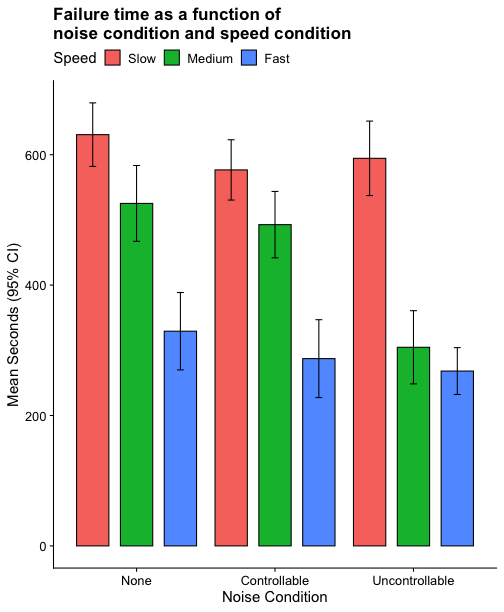
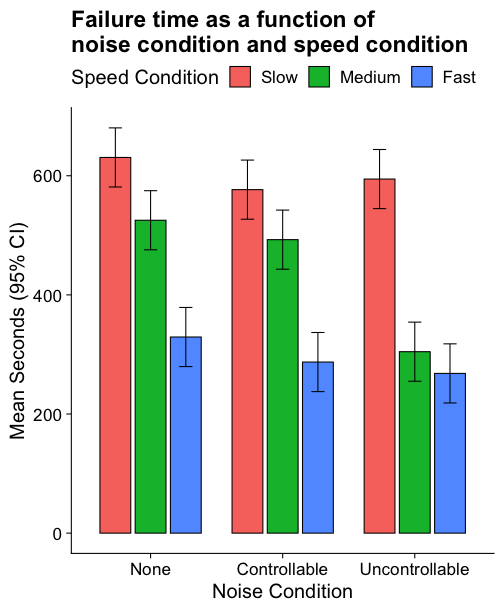
link lecture 16

Changed region(s): [[0.0, 0.0, 0.9821, 0.9935], [0.8929, 0.1242, 0.9524, 0.1552]]

diff --git a/lectures/16-interactions.html b/lectures/16-interactions.html
@@ -21,7 +21,7 @@ class: center, middle, inverse, title-slide
 ## Last time
 
 Mixing categorical and continuous variables
-- [Review example](https://uopsych.github.io/psy612/lectures/15-interactions.html#23)
+- [New example](https://uopsych.github.io/psy612/lectures/15-interactions.html#23)
 
 - Starting factorial ANOVA
 ---
@@ -49,7 +49,7 @@ The example data are from a simulated study in which 180 participants performed 
 ![](images/dot.jpg)
 ]
 
-The outcome was the time of the 10th failure. The experiment used a completely crossed, 3 x 3 factorial design. One factor was dot speed: .5, 1, or 1.5 revolutions per second.  The second factor was noise condition.  Some participants performed the task without any noise; others were subjected to periodic and unpredictable 3-second bursts of 85 dB white noise played over earphones.  Of those subjected to noise, half could do nothing to stop the noise (uncontrollable noise); half believed they could stop the noise by pressing a button (controllable noise).
+The outcome was the time of the 10th failure. The experiment used a completely crossed, 3 x 3 factorial design. One factor was dot speed: .5, 1, or 1.5 revolutions per second.  The second factor was noise condition: no noise, controllable noise, and uncontrollable noise.  The design was balanced. 
 
 ---
 
@@ -255,12 +255,8 @@ If not, then we would need to say that the noise condition effect depends upon (
 ---
 
 
-```r
-library(ggpubr)
-ggbarplot(data = Data, x = "Speed", y = "Time", fill = "Noise", add = c("mean_ci"), position = position_dodge(), xlab = "Speed Condition", ylab = "Mean Seconds (95% CI)", title = "Failure time as a function of\nnoise condition and speed condition") + cowplot::theme_cowplot(font_size = 20)
-```
-
 ![](16-interactions_files/figure-html/unnamed-chunk-7-1.png)&lt;!-- --&gt;
+
 
 The noise condition means are most distinctly different in the medium speed condition. The noise condition means are clearly not different in the fast speed condition. 
 
@@ -452,14 +448,29 @@ The other part will be **between-group variability**.  This part will include va
 
 $$
 `\begin{aligned}
-\large SS_{\text{total}} &amp;= \sum_{r=1}^R\sum_{c=1}^C\sum_{i=1}^{N_{rc}}(Y_{rci}-\bar{Y}_{rc.})^2 \\
+\large SS_{\text{total}} &amp;= \sum_{r=1}^R\sum_{c=1}^C\sum_{i=1}^{N_{rc}}(Y_{rci}-\bar{Y}_{...})^2 \\
+\large SS_{\text{Within}} &amp;= \sum_{r=1}^R\sum_{c=1}^C\sum_{i=1}^{N_{rc}}(Y_{rci}-\bar{Y}_{rc.})^2 \\
 \large SS_R &amp;= CN\sum_{r=1}^R(\bar{Y}_{r..}-\bar{Y}_{...})^2\\
 SS_C &amp;= RN\sum_{c=1}^C(\bar{Y}_{.c.}-\bar{Y}_{...})^2\\
 \large SS_{RC} &amp;= \sum_{r=1}^R\sum_{c=1}^C\sum_{i=1}^{N_{rc}}(\bar{Y}_{rc.}-\bar{Y}_{r..}-\bar{Y}_{.c.}+\bar{Y}_{...})^2 \\
+\end{aligned}`
+$$
+---
+
+### Variability 
+
+
+$$
+`\begin{aligned}
+\large SS_{\text{total}} &amp;= \sum_{r=1}^R\sum_{c=1}^C\sum_{i=1}^{N_{rc}}(Y_{rci}-\bar{Y}_{...})^2 \\
+\large SS_{\text{Within}} &amp;= \sum_{r=1}^R\sum_{c=1}^C\sum_{i=1}^{N_{rc}}(Y_{rci}-\bar{Y}_{rc.})^2 \\
+\large SS_R &amp;= CN\sum_{r=1}^R(\bar{Y}_{r..}-\bar{Y}_{...})^2\\
+SS_C &amp;= RN\sum_{c=1}^C(\bar{Y}_{.c.}-\bar{Y}_{...})^2\\
 \large SS_{RC} &amp;= N\sum_{r=1}^R\sum_{c=1}^C(\bar{Y}_{rc.}-\bar{Y}_{r..}-\bar{Y}_{.c.}+\bar{Y}_{...})^2 \\
 \end{aligned}`
 $$
 ---
+
 
 ### Variability 
 
@@ -475,7 +486,8 @@ $$
 \large df_C &amp;= C-1 \\
 \large df_{RxC} &amp;= (R-1)(C-1) \\
 \large df_{within} &amp;= N-G \\
-&amp;= N-(R-1)-(C-1)-[(R-1)(C-1)]-1
+&amp;= N-(R-1)-(C-1)-[(R-1)(C-1)]-1\\
+&amp;= df_{total} - df_{R} - df_C - df_{RxC}
 \end{aligned}`
 $$
 
@@ -518,7 +530,15 @@ If the design is balanced (equal cases in all conditions), then:
 `\(df\)`, `\(MS\)`, and `\(F\)` ratios are defined in the same way as they were for one-way ANOVA. We just have more of them.
 
 .pull-left[
-Caution:  Comparing the confidence intervals for two means (overlap) is not the same as the confidence interval for the difference between two means.
+$$
+`\begin{aligned}
+\large F_R &amp;= \frac{MS_R}{MS_{within}} \\
+\\
+\large F_C &amp;= \frac{MS_C}{MS_{within}} \\
+\\
+\large F_{RxC} &amp;= \frac{MS_{RxC}}{MS_{within}} \\
+\end{aligned}`
+$$
 
 ]
 
@@ -651,7 +671,7 @@ All of the effects in the ANOVA are statistically significant, but how big are t
 `$$\large \eta^2 = \frac{SS_{\text{effect}}}{SS_{\text{total}}}$$`
 If the design is balanced...
 
-`$$\large SS_{\text{total}} = SS_{\text{speed}} + SS_{\text{noise}}+SS_{\text{speed:noise}}+SS_{\text{residual}}$$`
+`$$\large SS_{\text{total}} = SS_{\text{speed}} + SS_{\text{noise}}+SS_{\text{speed:noise}}+SS_{\text{within}}$$`
 ---
 
 
@@ -727,18 +747,18 @@ The sum of the `\(\eta^2\)` for effects and residual is 1.00.
 
 One argument against `\(\eta^2\)` is that its magnitude depends in part on the magnitude of the other effects in the design. If the amount of variability due to Noise or Speed x Noise changes, so to does the effect size for Speed.
 
-`$$\large \eta^2_{speed} = \frac{SS_{\text{speed}}}{SS_{\text{speed}} + SS_{\text{noise}} + SS_{\text{speed:noise}}+ SS_{\text{residual}}}$$`
+`$$\large \eta^2_{\text{speed}} = \frac{SS_{\text{speed}}}{SS_{\text{speed}} + SS_{\text{noise}} + SS_{\text{speed:noise}}+ SS_{\text{within}}}$$`
 
 An alternative is to pretend the other effects do not exist and reference the effect sum of squares to residual variability.
 
-`$$\large \text{partial }\eta^2_{speed} = \frac{SS_{\text{speed}}}{SS_{\text{speed}} + SS_{\text{residual}}}$$`
+`$$\large \text{partial }\eta^2_{\text{speed}} = \frac{SS_{\text{speed}}}{SS_{\text{speed}} + SS_{\text{within}}}$$`
 ---
 
 ### `\(\eta^2\)`
 
 One rationale for partial `\(\eta^2\)` is that the residual variability represents the expected variability in the absence of any treatments or manipulations.  The presence of any treatments or manipulations only adds to total variability.  Viewed from that perspective, residual variability is a sensible benchmark against which to judge any effect.
 
-`$$\large \text{partial }\eta^2_{effect} = \frac{SS_{\text{effect}}}{SS_{\text{effect}} + SS_{\text{residual}}}$$`
+`$$\large \text{partial }\eta^2_{\text{effect}} = \frac{SS_{\text{effect}}}{SS_{\text{effect}} + SS_{\text{within}}}$$`
 
 Partial `\(\eta^2\)` is sometimes described as the expected effect size in a study in which the effect in question is the only effect present.
 
@@ -794,7 +814,7 @@ The sum of partial `\(\eta^2\)` does not have a meaningful interpretation.
 
 ---
 
-**Differences in means**
+### Differences in means
 
 In a factorial design, marginal means or cell means must be calculated in order to interpret main effects and the interaction, respectively. The confidence intervals around those means likewise are needed.
 
@@ -843,18 +863,19 @@ In a factorial design, marginal means or cell means must be calculated in order 
 
 These means will be based on different sample sizes, which has an impact on the width of the confidence interval.
 
-If the homogeneity of variances assumption holds, a common estimate of score variability `\((MS_{residual})\)` underlies all of the confidence intervals. 
 ---
 
 ### Precision
 
-`$$\large SE_{mean} = \sqrt{\frac{MS_{residual}}{N}}$$`
+If the homogeneity of variances assumption holds, a common estimate of score variability `\((MS_{within})\)` underlies all of the confidence intervals. 
 
-`$$\large CI_{mean} = Mean \pm t_{df_{residual}, \alpha = .05}\sqrt{\frac{MS_{residual}}{N}}$$`
+`$$\large SE_{mean} = \sqrt{\frac{MS_{within}}{N}}$$`
+
+`$$\large CI_{mean} = Mean \pm t_{df_{within}, \alpha = .05}\sqrt{\frac{MS_{within}}{N}}$$`
 
 The sample size, `\(N\)`, depends on how many cases are aggregated to create the mean.
 
-The `\(MS_{residual}\)` is common to all calculations if homogeneity of variances is met.  The degrees of freedom for `\(MS_{residual}\)` determine the value of `\(t\)` to use.
+The `\(MS_{within}\)` is common to all calculations if homogeneity of variances is met.  The degrees of freedom for `\(MS_{within}\)` determine the value of `\(t\)` to use.
 ---
 
 
@@ -874,6 +895,7 @@ anova(fit)
 ## ---
 ## Signif. codes:  0 '***' 0.001 '**' 0.01 '*' 0.05 '.' 0.1 ' ' 1
 ```
+---
 
 ```r
 library(emmeans)
@@ -931,9 +953,30 @@ noise_lsm
 
 ---
 
-![](16-interactions_files/figure-html/unnamed-chunk-21-1.png)&lt;!-- --&gt;
 
---- 
+```r
+library(sjPlot)
+noise_m = plot_model(fit, type = "pred", terms = c("Noise")) + 
+  theme_sjplot(base_size = 20)
+speed_m = plot_model(fit, type = "pred", terms = c("Speed")) + 
+  theme_sjplot(base_size = 20)
+library(ggpubr)
+ggarrange(noise_m, speed_m, ncol = 2)
+```
+
+![](16-interactions_files/figure-html/unnamed-chunk-22-1.png)&lt;!-- --&gt;
+
+---
+
+
+```r
+plot_model(fit, type = "pred", terms = c("Speed", "Noise")) + 
+  theme_sjplot(base_size = 20) + theme(legend.position = "bottom")
+```
+
+![](16-interactions_files/figure-html/unnamed-chunk-23-1.png)&lt;!-- --&gt;
+
+---
 
 ### Cohen's D
 
@@ -994,9 +1037,9 @@ A reminder that comparing the confidence intervals for two means (overlap) is no
 
 $$
 `\begin{aligned}
-\large SE_{\text{mean}} &amp;= \sqrt{\frac{MS_{residual}}{N}}\\
-\large SE_{\text{mean difference}} &amp;= \sqrt{MS_{residual}[\frac{1}{N_1}+\frac{1}{N_2}]} \\
-\large SE_{\text{mean difference}} &amp;= \sqrt{\frac{2MS_{residual}}{N}} \\
+\large SE_{\text{mean}} &amp;= \sqrt{\frac{MS_{within}}{N}}\\
+\large SE_{\text{mean difference}} &amp;= \sqrt{MS_{within}[\frac{1}{N_1}+\frac{1}{N_2}]} \\
+\large SE_{\text{mean difference}} &amp;= \sqrt{\frac{2MS_{within}}{N}} \\
 \end{aligned}`
 $$
 

diff --git a/bonus.html b/bonus.html
@@ -404,6 +404,9 @@ div.tocify {
     <li>
       <a href="lectures/15-interactions.html">15-Interactions (II)</a>
     </li>
+    <li>
+      <a href="lectures/16-interactions.html">16-Interactions (III)</a>
+    </li>
   </ul>
 </li>
 <li class="dropdown">

diff --git a/final.html b/final.html
@@ -404,6 +404,9 @@ div.tocify {
     <li>
       <a href="lectures/15-interactions.html">15-Interactions (II)</a>
     </li>
+    <li>
+      <a href="lectures/16-interactions.html">16-Interactions (III)</a>
+    </li>
   </ul>
 </li>
 <li class="dropdown">

diff --git a/homework.html b/homework.html
@@ -404,6 +404,9 @@ div.tocify {
     <li>
       <a href="lectures/15-interactions.html">15-Interactions (II)</a>
     </li>
+    <li>
+      <a href="lectures/16-interactions.html">16-Interactions (III)</a>
+    </li>
   </ul>
 </li>
 <li class="dropdown">

diff --git a/index.html b/index.html
@@ -405,6 +405,9 @@ div.tocify {
     <li>
       <a href="lectures/15-interactions.html">15-Interactions (II)</a>
     </li>
+    <li>
+      <a href="lectures/16-interactions.html">16-Interactions (III)</a>
+    </li>
   </ul>
 </li>
 <li class="dropdown">

diff --git a/schedule.html b/schedule.html
@@ -404,6 +404,9 @@ div.tocify {
     <li>
       <a href="lectures/15-interactions.html">15-Interactions (II)</a>
     </li>
+    <li>
+      <a href="lectures/16-interactions.html">16-Interactions (III)</a>
+    </li>
   </ul>
 </li>
 <li class="dropdown">
